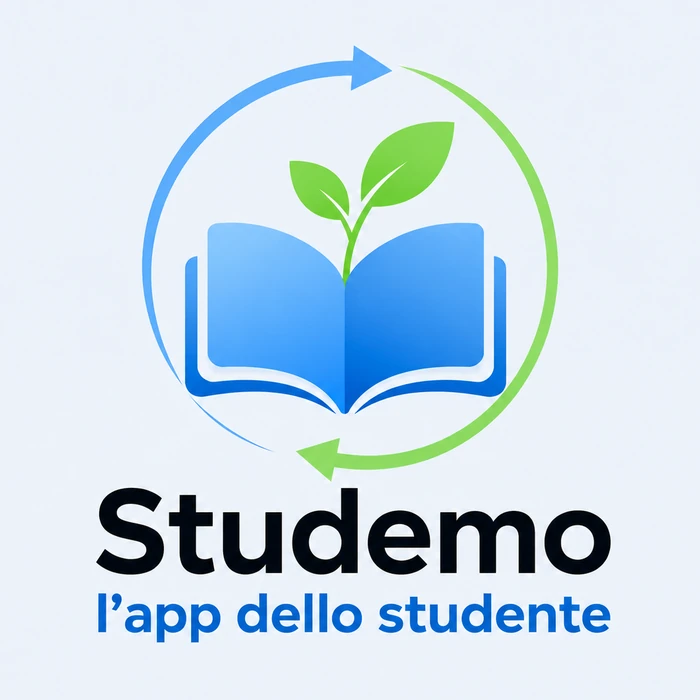
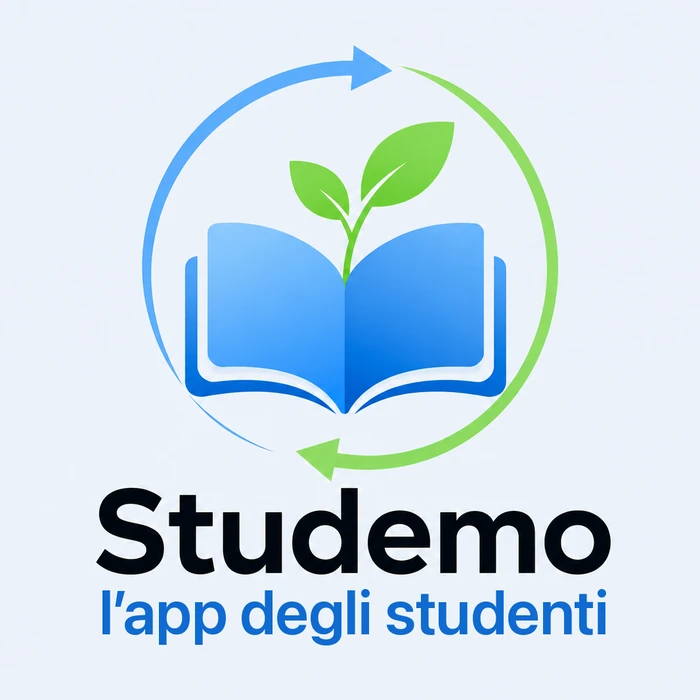
Il claim va al plurale: l'app degli studenti
Studemo è di tutti gli studenti, non di uno solo: il claim passa al plurale
nel titolo, nell'anteprima social, nell'occhiello e nel piede, e dentro
l'immagine del marchio.

Changed region(s): [[0.12, 0.84, 0.87, 0.93]]

diff --git a/index.html b/index.html
@@ -3,14 +3,14 @@
 <head>
 <meta charset="utf-8">
 <meta name="viewport" content="width=device-width, initial-scale=1">
-<title>Studemo — l'app dello studente</title>
+<title>Studemo — l'app degli studenti</title>
 <meta name="description" content="Libri e appunti tra studenti, vicino a te. Scatti la copertina, metti il prezzo, ti scrivono. Gratis: risparmi a settembre e dai una seconda vita ai libri, dalle elementari all'università.">
 <meta name="theme-color" content="#1668DC">
 <meta name="color-scheme" content="light">
 <link rel="canonical" href="https://studemo.it/">
 <link rel="icon" href="favicon.png">
 <link rel="apple-touch-icon" href="icona.png">
-<meta property="og:title" content="Studemo — l'app dello studente">
+<meta property="og:title" content="Studemo — l'app degli studenti">
 <meta property="og:description" content="Libri e appunti tra studenti, vicino a te. Scatti la copertina, metti il prezzo, ti scrivono. Gratis: si risparmia e i libri fanno un altro giro.">
 <meta property="og:image" content="https://studemo.it/anteprima.jpg">
 <meta property="og:url" content="https://studemo.it/">
@@ -374,7 +374,7 @@
 <div class="apertura">
   <div class="contenitore">
     <div>
-      <span class="occhiello sale"><img src="icona.png" alt="" width="22" height="22"> l'app dello studente</span>
+      <span class="occhiello sale"><img src="icona.png" alt="" width="22" height="22"> l'app degli studenti</span>
       <h1 class="sale">I tuoi libri valgono ancora.<br><span class="grad">Quelli che ti servono sono già qui.</span></h1>
       <p class="guida sale">
         Pubblichi in un minuto i libri e gli appunti che hai finito, e trovi quelli che ti servono:
@@ -662,7 +662,7 @@
     <div class="piede">
       <div class="prima">
         <a class="marchio" href="#"><img src="icona.png" alt="" width="38" height="38"><b>Studemo</b></a>
-        <p>L'app dello studente: libri e appunti tra studenti, vicino a te. Dalla prima elementare alla laurea.</p>
+        <p>L'app degli studenti: libri e appunti tra studenti, vicino a te. Dalla prima elementare alla laurea.</p>
         <a class="social" href="https://www.instagram.com/studemo.it/" target="_blank" rel="noopener">
           <svg viewBox="0 0 24 24" fill="none" stroke="currentColor" stroke-width="1.9" stroke-linecap="round" stroke-linejoin="round"><rect x="3" y="3" width="18" height="18" rx="5.5"/><circle cx="12" cy="12" r="4"/><circle cx="17.4" cy="6.6" r="1.1" fill="currentColor" stroke="none"/></svg>
           @studemo.it
@@ -688,7 +688,7 @@
       </div>
     </div>
     <div class="coda">
-      <span>© 2026 Studemo · l'app dello studente</span>
+      <span>© 2026 Studemo · l'app degli studenti</span>
       <span>Fatto a Brescia, per le scuole di qui.</span>
     </div>
   </div>
